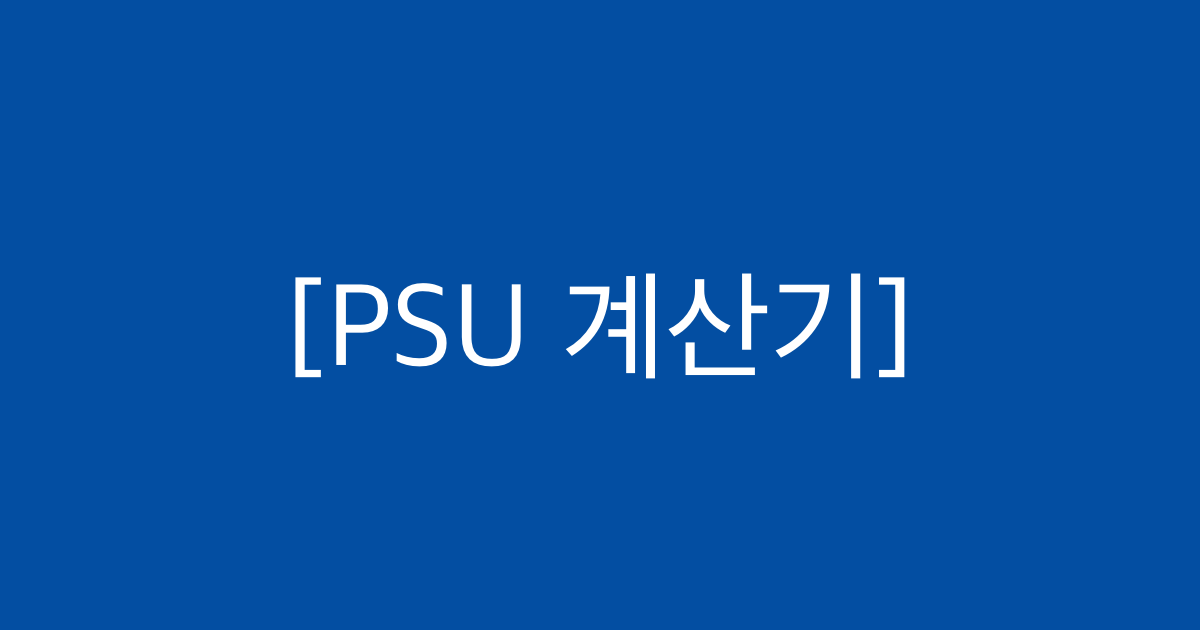
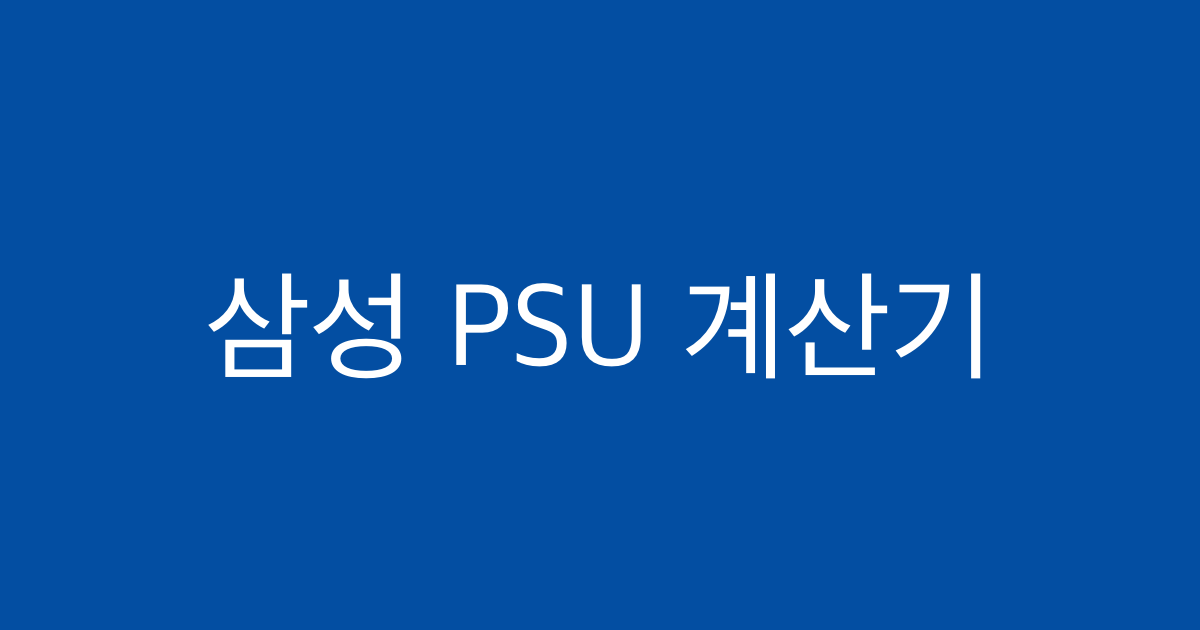
Update thumbnail text to '삼성 PSU 계산기' and fix visitor badge service

Changed region(s): [[0.1542, 0.4222, 0.8325, 0.6032]]

diff --git a/index.html b/index.html
@@ -8,8 +8,8 @@
     <!-- SNS 공유 (Open Graph) 설정 -->
     <meta property="og:title" content="삼성전자 PSU 보상 계산기">
     <meta property="og:description" content="삼성전자 PSU 기준주가 및 직급별 보상 수량을 확인하세요.">
-    <!-- ?v=1.1 을 붙여서 SNS 캐시 갱신을 유도합니다 -->
-    <meta property="og:image" content="https://tj-sketch77.github.io/samsung-psu-calculator/og-image.png?v=1.1">
+    <!-- ?v=1.2 를 붙여서 신규 텍스트 '삼성 PSU 계산기' 반영을 유도합니다 -->
+    <meta property="og:image" content="https://tj-sketch77.github.io/samsung-psu-calculator/og-image.png?v=1.2">
     <meta property="og:url" content="https://tj-sketch77.github.io/samsung-psu-calculator/">
     <meta property="og:type" content="website">
 
